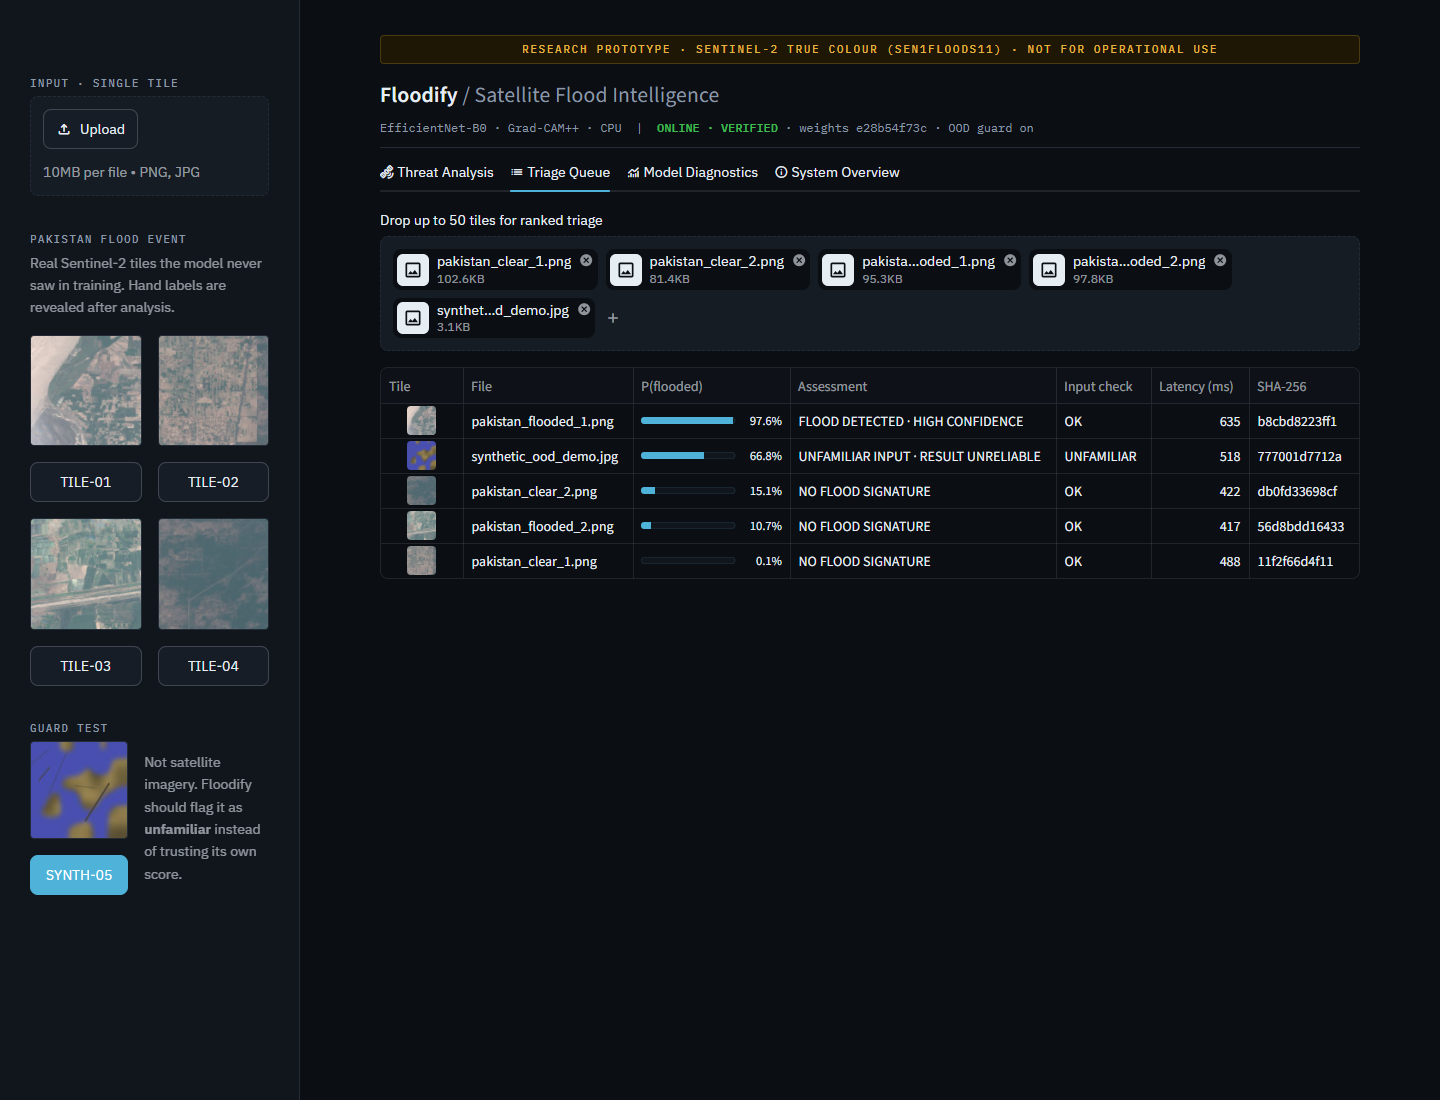
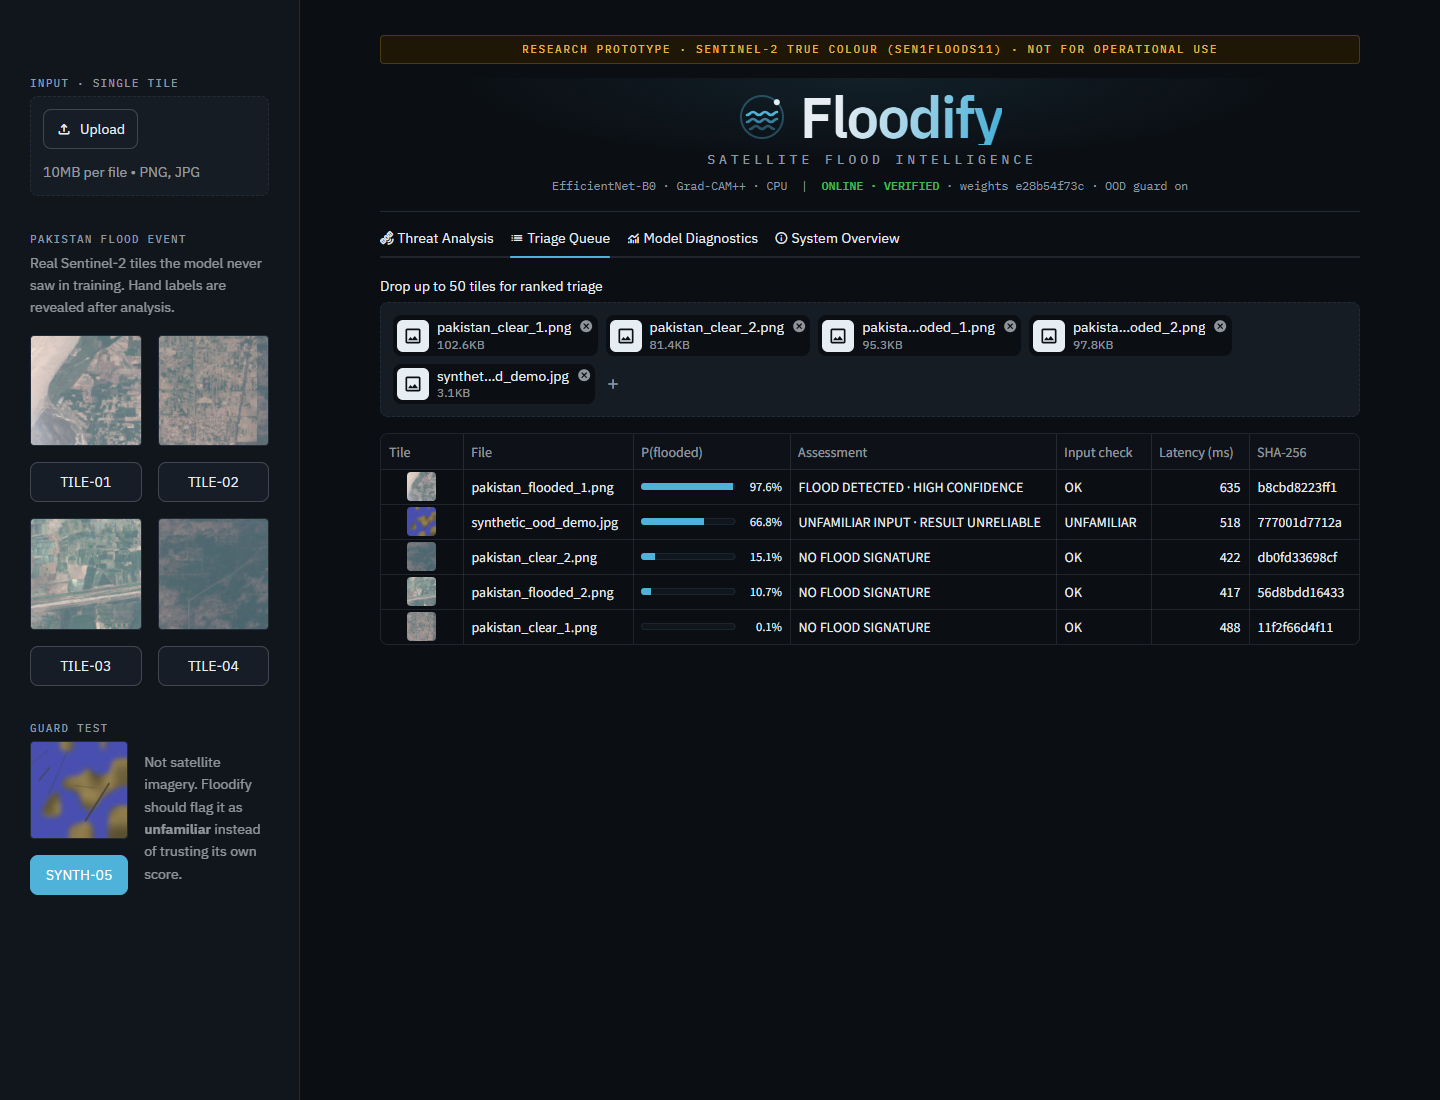
Centered Floodify header with brand mark
- Large gradient Floodify wordmark centered at the top with an inline SVG
  orbit-and-waves mark and spaced tagline
- Model status line centered beneath; screenshots recaptured

diff --git a/app.py b/app.py
@@ -84,6 +84,17 @@ RISK_BANDS = (
 )
 OOD_LABEL = "UNFAMILIAR INPUT · RESULT UNRELIABLE"
 
+# Brand mark: an orbit ring over three water waves (inline SVG, no external asset).
+BRAND_MARK_SVG = (
+    '<svg viewBox="0 0 48 48" fill="none" aria-hidden="true">'
+    '<circle cx="24" cy="24" r="21" stroke="#4FB3D9" stroke-opacity=".35" stroke-width="2"/>'
+    '<circle cx="38.8" cy="9.2" r="3" fill="#E6EDF3"/>'
+    '<path d="M9 22c3 0 3-3 6-3s3 3 6 3 3-3 6-3 3 3 6 3 3-3 6-3" stroke="#4FB3D9" stroke-width="2.6" stroke-linecap="round"/>'
+    '<path d="M9 29c3 0 3-3 6-3s3 3 6 3 3-3 6-3 3 3 6 3 3-3 6-3" stroke="#4FB3D9" stroke-opacity=".7" stroke-width="2.6" stroke-linecap="round"/>'
+    '<path d="M12 36c3 0 3-3 6-3s3 3 6 3 3-3 6-3 3 3 6 3" stroke="#4FB3D9" stroke-opacity=".4" stroke-width="2.6" stroke-linecap="round"/>'
+    "</svg>"
+)
+
 COLOR_TEXT = "#E6EDF3"
 COLOR_MUTED = "#8B98A5"
 COLOR_ACCENT = "#4FB3D9"
@@ -131,11 +142,15 @@ header[data-testid="stHeader"]{background:transparent}
 [data-testid="stImage"] img{border-radius:4px;border:1px solid var(--border)}
 .poc-banner{background:#1F1705;color:#E3B341;border:1px solid #4A3A10;border-radius:4px;padding:6px 10px;margin-bottom:14px;
 font:500 .7rem/1.3 var(--mono);letter-spacing:.14em;text-transform:uppercase;text-align:center}
-.app-header{display:flex;justify-content:space-between;align-items:flex-end;flex-wrap:wrap;gap:8px;
-border-bottom:1px solid var(--border);padding-bottom:12px;margin-bottom:4px}
-.app-title{font-size:1.35rem;font-weight:600;color:var(--text);letter-spacing:.01em}
-.app-title span{color:var(--muted);font-weight:400}
-.app-meta{font:.74rem var(--mono);color:var(--muted)}
+.app-header{display:flex;flex-direction:column;align-items:center;text-align:center;gap:6px;
+padding:10px 0 18px;margin-bottom:6px;border-bottom:1px solid var(--border);
+background:radial-gradient(ellipse 60% 90% at 50% 0%,rgba(79,179,217,.10),transparent 70%)}
+.app-brand{display:flex;align-items:center;justify-content:center;gap:14px}
+.app-brand svg{width:clamp(34px,4vw,48px);height:auto;flex:none}
+.app-wordmark{font:700 clamp(2.4rem,5vw,3.6rem)/1 var(--sans);letter-spacing:-.03em;
+background:linear-gradient(100deg,#E6EDF3 20%,#4FB3D9 95%);-webkit-background-clip:text;background-clip:text;color:transparent}
+.app-tagline{font:500 .8rem var(--mono);letter-spacing:.32em;text-transform:uppercase;color:var(--muted);padding-left:.32em}
+.app-meta{font:.72rem var(--mono);color:var(--muted);margin-top:4px}
 .app-meta b{font-weight:600}
 .stTabs [data-baseweb="tab-list"]{gap:28px;border-bottom:1px solid var(--border)}
 .stTabs [data-baseweb="tab"]{padding:10px 0;font-size:.78rem;letter-spacing:.08em;text-transform:uppercase;color:var(--muted)}
@@ -303,7 +318,8 @@ def render_header(loaded: LoadedCheckpoint | None) -> None:
         '<div class="poc-banner">Research prototype · Sentinel-2 true colour (Sen1Floods11) · '
         "not for operational use</div>"
         '<div class="app-header">'
-        '<div class="app-title">Floodify <span>/ Satellite Flood Intelligence</span></div>'
+        f'<div class="app-brand">{BRAND_MARK_SVG}<span class="app-wordmark">Floodify</span></div>'
+        '<div class="app-tagline">Satellite Flood Intelligence</div>'
         f'<div class="app-meta">EfficientNet-B0 · Grad-CAM++ · CPU &nbsp;|&nbsp; {status}{guard}</div>'
         "</div>",
         unsafe_allow_html=True,
